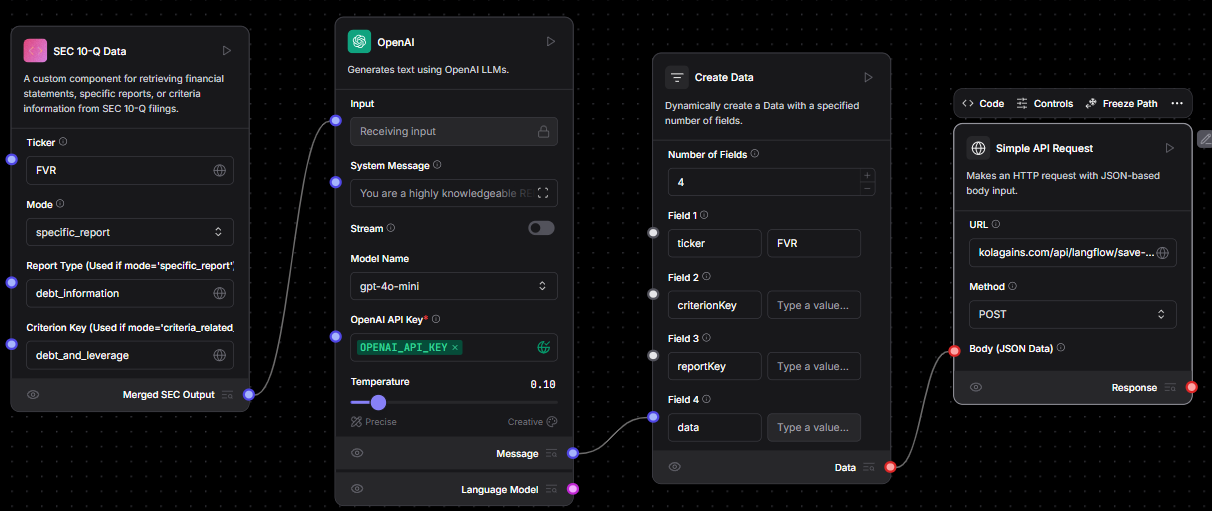
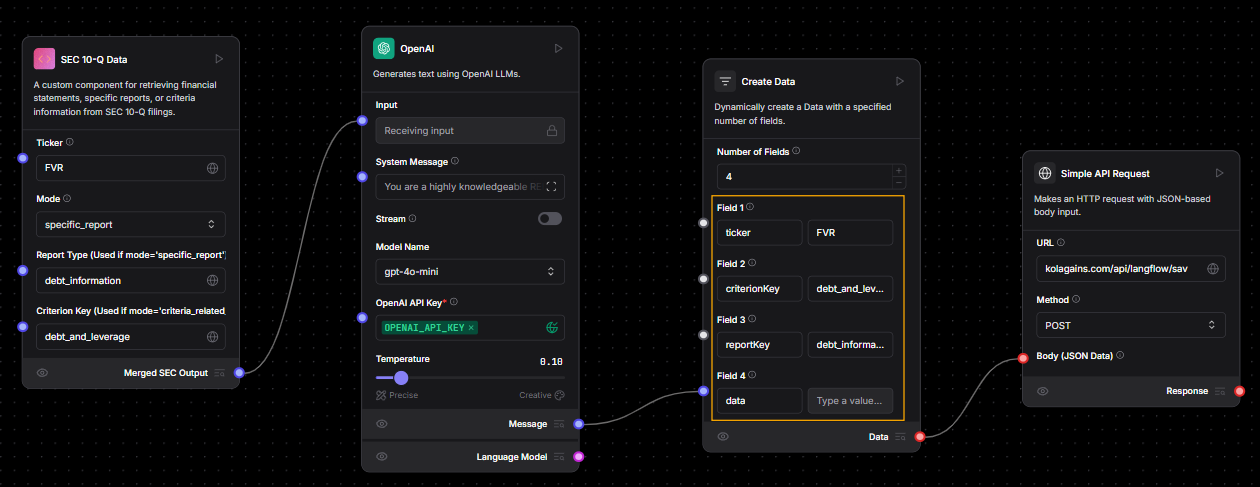
some changes in creation flows

Changed region(s): [[0.2442, 0.0308, 1.0, 1.0], [0.0, 0.0308, 0.2442, 0.8316], [0.6411, 0.462, 0.6716, 0.4928]]

diff --git a/docs/src/0010_creating_performance_checklist.md b/docs/src/0010_creating_performance_checklist.md
@@ -4,15 +4,13 @@ First of all make sure that criteria for the desired company's industry group is
 
 ## Generating the Checklist
 
-- Locate the dodao sec tools
-
-  ![Copy Criteria](./images/criteira_and_report/dodao_sec_tools.png)
-
 - Build the flow
 
   ![Copy Criteria](./images/criteira_and_report/flow-for-checklist.png)
 
 - After the OpenAI component when creating data use "PerformanceChecklist" as the report Type.
+- Carefully fill the fileds whcih are in yellow rectangle in image
+- The Api Request should be sent to https://kolagains.com/api/langflow/save-performance-checklist
 
 ## Prompts for checklists:
 

diff --git a/docs/src/creating_first_report_for_test_ticker.md b/docs/src/creating_first_report_for_test_ticker.md
@@ -9,4 +9,5 @@
 - In first step we get the related SEC data fro the specific ticker, criterion and report type
 - In second step we give the SEC data to OpenAI and also the prompt about the report Type to be generated
 - In third step generated report is passed to next componnt as data which has this report content in data field
+- Carefully fill the fileds whcih are in yellow rectangle in image
 - The final body created by previous component is passed as body on post request to https://kolagains.com/api/langflow/save-report
